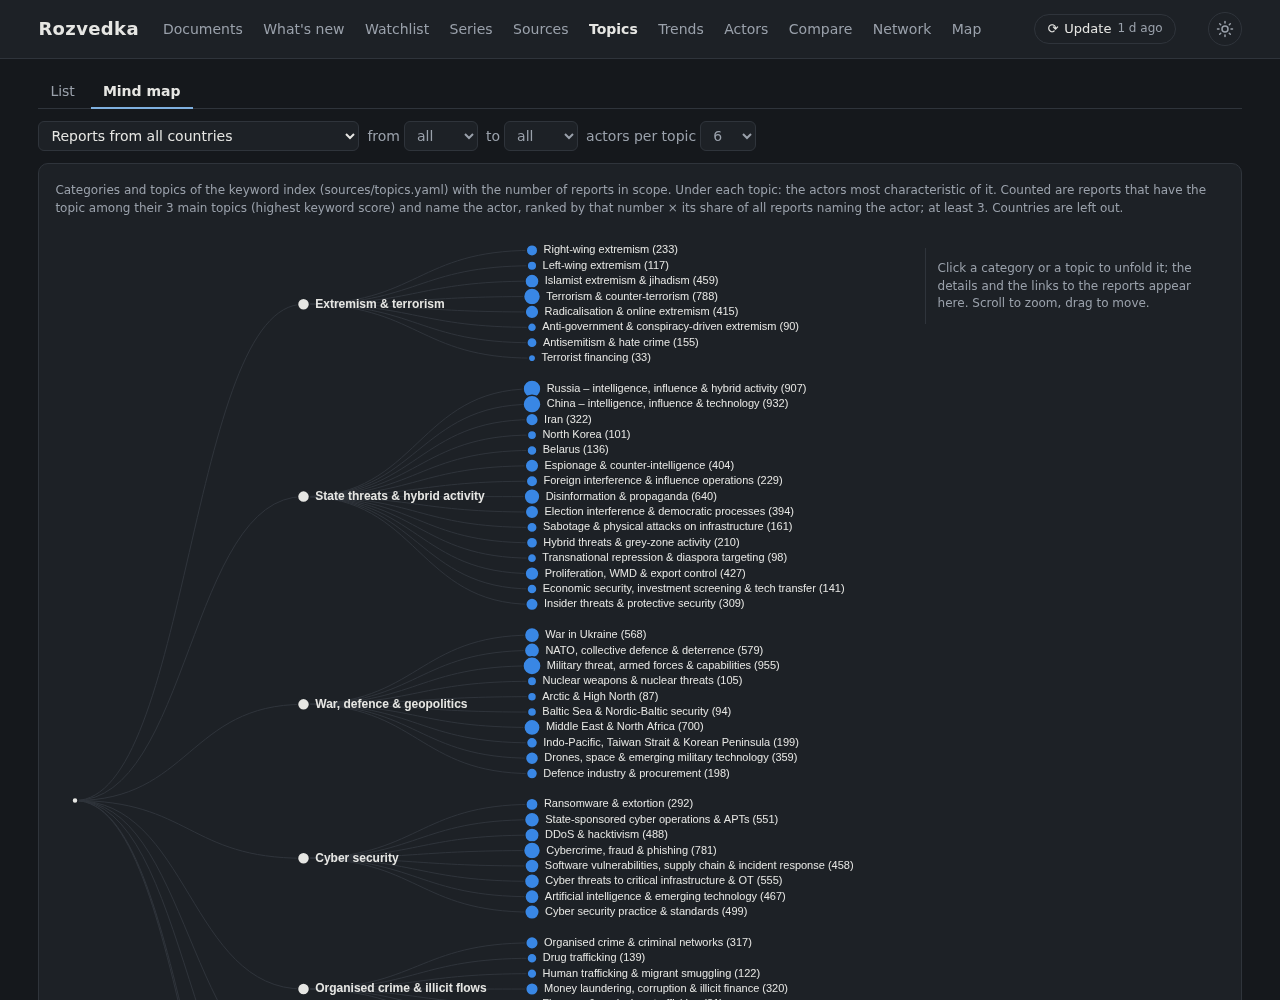
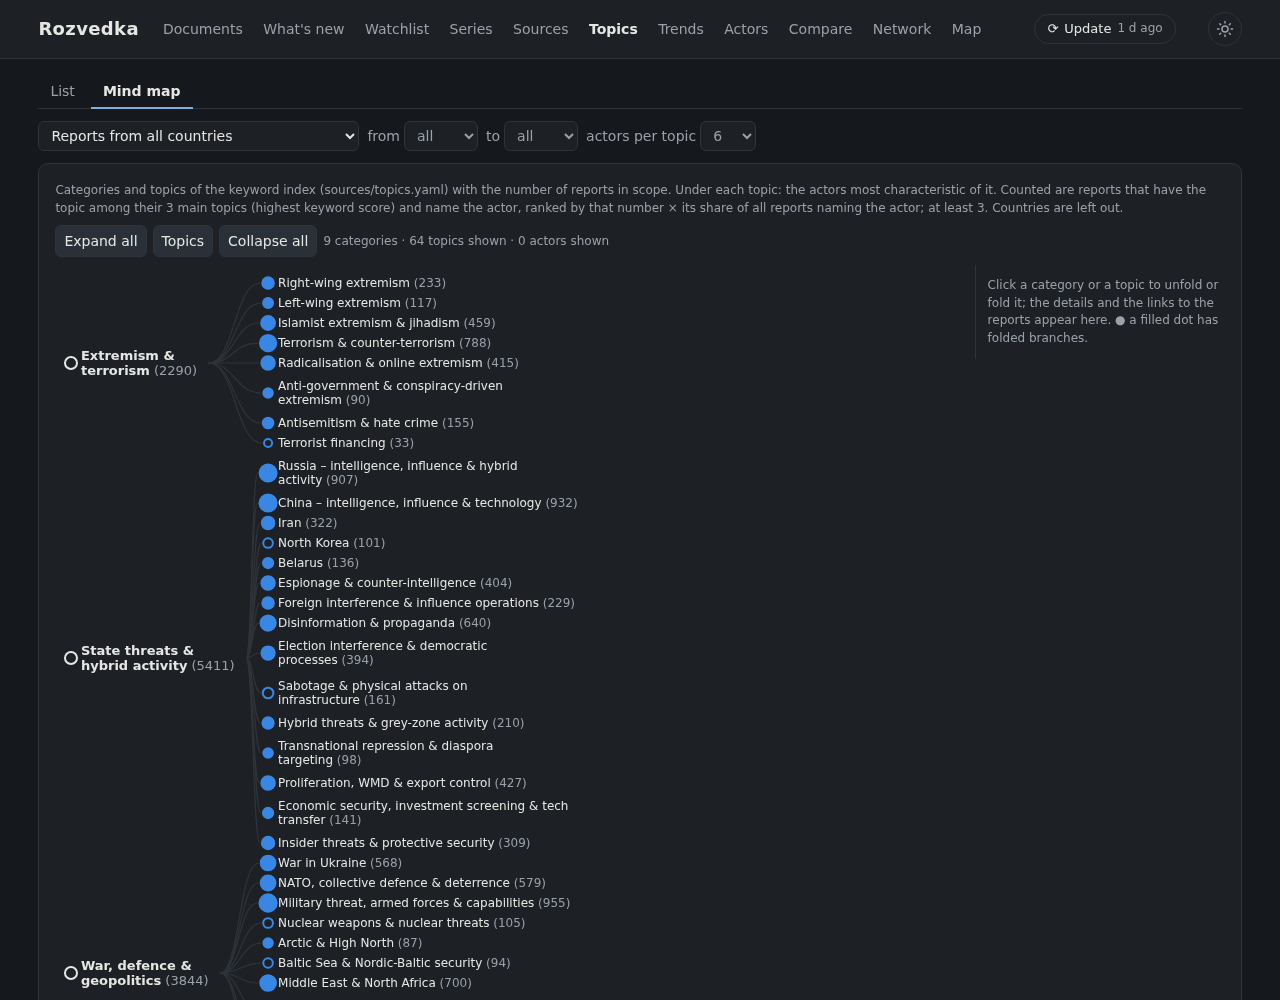
Topic mind map: data in one query (~11 s -> 0.8 s), tidy SVG tree without overlapping labels, expand/collapse all (0.39.0)

diff --git a/rozvedka/templates/topic_map.html b/rozvedka/templates/topic_map.html
@@ -1,6 +1,5 @@
 {% extends "base.html" %}
 {% block title %}Topic mind map · Rozvedka{% endblock %}
-{% block head %}<script src="{{ asset('vendor/echarts/echarts.min.js') }}"></script>{% endblock %}
 {% block main %}
 <nav class="subnav" aria-label="Topic views"><a href="/topics">List</a><a href="/topics/map" class="on">Mind map</a></nav>
 <form class="filters trend-filters" id="scope" onsubmit="return false">
@@ -13,10 +12,16 @@
 </form>
 <section class="viz-card">
   <p id="sub" class="muted small viz-sub"></p>
+  <div class="mm-bar">
+    <button type="button" id="expand-all">Expand all</button>
+    <button type="button" id="topics-only">Topics</button>
+    <button type="button" id="collapse-all">Collapse all</button>
+    <span class="muted small" id="mm-count"></span>
+  </div>
   <div class="tree-grid">
-    <div id="tree" class="chart chart-tree" role="img" aria-describedby="sub"></div>
+    <div class="mm-scroll"><svg id="tree" class="mm" role="tree" aria-describedby="sub"></svg></div>
     <aside id="panel" class="tree-panel" aria-live="polite"><p class="muted small">Click a category or a topic to unfold
-      it; the details and the links to the reports appear here. Scroll to zoom, drag to move.</p></aside>
+      or fold it; the details and the links to the reports appear here. ● a filled dot has folded branches.</p></aside>
   </div>
   <details class="viz-table"><summary>Table view</summary><div id="table"></div></details>
 </section>
@@ -25,13 +30,34 @@
   const $ = (s) => document.querySelector(s);
   const form = $("#scope");
   const esc = (s) => String(s ?? "").replace(/[&<>"']/g, (c) => ({ "&": "&amp;", "<": "&lt;", ">": "&gt;", '"': "&quot;", "'": "&#39;" }[c]));
-  const css = (n) => getComputedStyle(document.documentElement).getPropertyValue(n).trim();
-  const dark = window.rzDark;
-  const url = new URL(location);
-  for (const el of form.elements) { const v = url.searchParams.get(el.name); if (v != null) el.value = v; }
-  const chart = echarts.init($("#tree"), null, { renderer: "canvas" });
-  let data = null;
-  chart.on("click", (p) => { if (p.data) panel(p.data); });
+  const SVG = "http://www.w3.org/2000/svg";
+  const ROW = 20, GAP = 24, PAD = 8;             // row height, space between a label and the next column
+  const svg = $("#tree");
+  let data = null, open = new Set(), maxT = 1;
+  const id = (n, parent) => n.type === "category" ? `c:${n.key}` : n.type === "topic" ? `t:${n.key}` : `a:${parent}:${n.key}`;
+  const measure = (() => {                       // label widths, so each column is as wide as its longest label
+    const c = document.createElement("canvas").getContext("2d");
+    return (text, font) => { c.font = font; return c.measureText(text).width; };
+  })();
+  const FONT = { category: "700 13px system-ui, sans-serif", topic: "12px system-ui, sans-serif", actor: "11.5px system-ui, sans-serif" };
+  const WRAP = { category: 160, topic: 300, actor: 230 };   // long labels wrap to two lines at this width
+  const cache = new Map();
+  function lines(n) {                            // a label's lines: [text, count] pairs; the count goes on the last line
+    const count = n.type === "actor" ? `  ${n.value}/${n.of}` : ` (${n.value})`, k = n.type + n.name + count;
+    if (cache.has(k)) return cache.get(k);
+    let out = [[n.name, count]];
+    const font = FONT[n.type], words = n.name.split(" ");
+    if (measure(n.name + count, font) > WRAP[n.type] && words.length > 1) {
+      let first = "";
+      while (words.length > 1 && measure(`${first} ${words[0]}`.trim(), font) <= WRAP[n.type]) first = `${first} ${words.shift()}`.trim();
+      out = [[first || words.shift(), ""], [words.join(" "), count]];
+    }
+    cache.set(k, out);
+    return out;
+  }
+  const labelWidth = (n) => Math.max(...lines(n).map(([t, c]) => measure(t + c, FONT[n.type])));
+  const radius = (n) => n.type === "category" ? 6 : n.type === "topic" ? 3 + 6 * Math.sqrt(n.value / maxT) : 3.5;
+
   function panel(n) {
     const box = $("#panel");
     if (n.type === "category") {
@@ -49,46 +75,97 @@
         <p class="small"><a href="${esc(n.actor)}">Actor page →</a></p>`;
     }
   }
-  addEventListener("resize", () => chart.resize());
-  dark.addEventListener("change", () => data && draw());
+  function setAll(mode) {                        // "all": every branch open; "topics": categories open; "none": all folded
+    open = new Set();
+    for (const c of data.tree.children) {
+      if (mode !== "none") open.add(id(c));
+      if (mode === "all") for (const t of c.children) if (t.children.length) open.add(id(t));
+    }
+    if (data && render.done) draw();
+  }
+  function el(tag, attrs, parent) {
+    const e = document.createElementNS(SVG, tag);
+    for (const [k, v] of Object.entries(attrs)) e.setAttribute(k, v);
+    parent.appendChild(e);
+    return e;
+  }
   function draw() {
-    const topicsShown = data.tree.children.reduce((n, c) => n + c.children.length, 0);
-    $("#tree").style.height = Math.max(600, topicsShown * 17 + 40) + "px";
-    chart.resize();
-    const ink = css("--ink"), muted = css("--muted"), line = css("--line"), panel = css("--panel");
-    const blue = dark.matches ? "#3987e5" : "#2a78d6", orange = dark.matches ? "#d95926" : "#eb6834";
-    const maxT = Math.max(1, ...data.tree.children.flatMap((c) => c.children.map((t) => t.value)));
-    const style = (n) => {
-      if (n.type === "category") return { ...n, raw: n.name, symbolSize: 12, itemStyle: { color: ink, borderColor: panel },
-        label: { fontWeight: 700, fontSize: 12, color: ink }, children: n.children.map(style) };
-      if (n.type === "topic") return { ...n, raw: n.name, name: `${n.name} (${n.value})`, symbolSize: 5 + 14 * Math.sqrt(n.value / maxT),
-        itemStyle: { color: blue, borderColor: panel }, children: n.children.map(style) };
-      return { ...n, raw: n.name, name: `${n.name} (${n.value}/${n.of})`, symbolSize: 6, itemStyle: { color: orange, borderColor: panel },
-        label: { color: ink, fontSize: 10 } };
-    };
-    chart.setOption({
-      tooltip: { backgroundColor: panel, borderColor: line, textStyle: { color: ink, fontSize: 12 },
-        formatter: (p) => p.data.type === "category" ? `<b>${esc(p.data.name)}</b>` :
-          p.data.type === "topic" ? `<b>${esc(p.data.name)}</b><br>reports · click to unfold its actors` :
-          `<b>${esc(p.data.raw)}</b><br>${p.data.value} of its ${p.data.of} reports are on this topic` },
-      series: [{ type: "tree", layout: "orthogonal", orient: "LR", roam: true, top: 10, bottom: 10, left: 20, right: 380,
-        data: [{ ...style({ ...data.tree, type: "category" }), label: { show: false }, symbolSize: 6 }],
-        leaves: { label: { position: "right", verticalAlign: "middle", align: "left" } },
-        symbol: "circle", initialTreeDepth: 2, expandAndCollapse: true, animationDuration: 300,
-        lineStyle: { color: line, width: 1, curveness: 0.5 },
-        label: { color: ink, fontSize: 11, position: "right", verticalAlign: "middle", align: "left" } }],
-    }, true);
+    // visible nodes in depth-first order; leaves take one row each, an open parent sits beside its children's middle
+    const cols = [0, 0, 0], nodes = [];
+    let row = 0;
+    function walk(n, depth, parentId) {
+      const nid = id(n, parentId), kids = n.children || [], isOpen = kids.length && open.has(nid);
+      const node = { n, nid, depth, isOpen, folded: kids.length > 0 && !isOpen, kids: [] };
+      cols[depth] = Math.max(cols[depth], labelWidth(n));
+      nodes.push(node);
+      if (isOpen) {
+        node.kids = kids.map((k) => walk(k, depth + 1, n.key));
+        node.y = (node.kids[0].y + node.kids.at(-1).y) / 2;
+      } else { const k = lines(n).length; node.y = PAD + ROW * (row + k / 2); row += k; }
+      return node;
+    }
+    const cats = data.tree.children.map((c) => walk(c, 0, ""));
+    const x = [PAD + 8];
+    for (let d = 1; d < 3; d++) x[d] = x[d - 1] + 14 + cols[d - 1] + GAP;
+    const deepest = Math.max(...nodes.map((v) => v.depth));
+    const width = x[deepest] + 14 + cols[deepest] + PAD;
+    const height = PAD * 2 + ROW * row;
+    svg.replaceChildren();
+    svg.setAttribute("width", width); svg.setAttribute("height", height); svg.setAttribute("viewBox", `0 0 ${width} ${height}`);
+    const links = el("g", { class: "mm-links" }, svg), gNodes = el("g", {}, svg);
+    for (const v of nodes) {
+      v.x = x[v.depth];
+      for (const k of v.kids) {                   // from the end of the parent's label to the child's dot
+        const x0 = v.x + 10 + labelWidth(v.n) + 6, x1 = x[k.depth] - radius(k.n) - 2, m = (x0 + x1) / 2;
+        el("path", { d: `M${x0},${v.y} C${m},${v.y} ${m},${k.y} ${x1},${k.y}` }, links);
+      }
+    }
+    for (const v of nodes) {
+      const n = v.n, g = el("g", { class: `mm-node mm-${n.type}${v.folded ? " folded" : ""}`, transform: `translate(${v.x},${v.y})`,
+                                   tabindex: 0, role: "treeitem", "aria-expanded": n.children && n.children.length ? String(!!v.isOpen) : null }, gNodes);
+      if (!(n.children && n.children.length)) g.removeAttribute("aria-expanded");
+      el("circle", { r: radius(n) }, g);
+      const ls = lines(n), t = el("text", {}, g);
+      ls.forEach(([text, count], i) => {
+        const line = el("tspan", { x: 10, dy: i ? "1.2em" : `${0.35 - (ls.length - 1) * 0.6}em` }, t);
+        line.textContent = text;
+        if (count) el("tspan", { class: "mm-n" }, t).textContent = count;
+      });
+      el("title", {}, g).textContent = n.type === "actor"
+        ? `${n.name}: ${n.value} of its ${n.of} reports have this topic among their main topics`
+        : `${n.name}: ${n.value} reports${n.children && n.children.length ? (v.isOpen ? " · click to fold" : " · click to unfold") : ""}`;
+      const act = () => {
+        if (n.children && n.children.length) { open.has(v.nid) ? open.delete(v.nid) : open.add(v.nid); draw(); }
+        panel({ ...n, raw: n.name, children: (n.children || []).map((k) => ({ ...k, raw: k.name })) });
+      };
+      g.addEventListener("click", act);
+      g.addEventListener("keydown", (e) => { if (e.key === "Enter" || e.key === " ") { e.preventDefault(); act(); } });
+    }
+    const shown = nodes.filter((v) => v.n.type === "actor").length;
+    $("#mm-count").textContent = `${cats.length} categories · ${nodes.filter((v) => v.n.type === "topic").length} topics shown · ${shown} actors shown`;
+  }
+  function render() {
+    maxT = Math.max(1, ...data.tree.children.flatMap((c) => c.children.map((t) => t.value)));
+    draw();
     $("#sub").textContent = data.how;
     $("#table").innerHTML = '<table class="vt"><tr><th>Category</th><th>Topic</th><th>Reports</th><th>Actors named in most of them</th></tr>' +
       data.tree.children.flatMap((c) => c.children.map((t) => `<tr><td>${esc(c.name)}</td><td>${esc(t.name)}</td>
         <td><a href="${esc(t.link)}">${t.value}</a></td><td>${t.children.map((a) => `<a href="${esc(a.actor)}">${esc(a.name)}</a> <a class="muted" href="${esc(a.link)}">${a.value}/${a.of}</a>`).join(", ")}</td></tr>`)).join("") + "</table>";
   }
+  $("#expand-all").addEventListener("click", () => setAll("all"));
+  $("#topics-only").addEventListener("click", () => setAll("topics"));
+  $("#collapse-all").addEventListener("click", () => setAll("none"));
   async function load() {
     const q = new URLSearchParams();
     for (const el of form.elements) if (el.name && el.value !== "") q.set(el.name, el.value);
     const page = new URL(location); page.search = q.toString(); history.replaceState(null, "", page);
+    svg.classList.add("loading");
     data = await (await fetch(`/api/topics/tree?${q}`)).json();
-    draw();
+    svg.classList.remove("loading");
+    const first = !render.done;
+    render.done = true;
+    if (first) setAll("topics");      // keeps what the viewer unfolded when only the filters change
+    render();
   }
   form.addEventListener("change", load);
   load();

diff --git a/rozvedka/static/style.css b/rozvedka/static/style.css
@@ -389,7 +389,6 @@ blockquote.p-text mark { background: #fde68a; color: #1d2126; padding: 0 2px; bo
 
 /* ── Network, mentions map, mind map ── */
 .chart-net { height: 720px; }
-.chart-tree { height: 1150px; }
 .map-tabs { margin: 0 0 6px; border-bottom-color: var(--line); }
 .map-tabs a { padding: 4px 8px; font-size: 13px; }
 .coal-select .row { display: flex; gap: 6px; }
@@ -401,9 +400,30 @@ blockquote.p-text mark { background: #fde68a; color: #1d2126; padding: 0 2px; bo
 .map-tabs { flex-wrap: nowrap; }
 .map-tabs a { padding: 4px 5px; white-space: nowrap; font-size: 12.5px; }
 .thin-legend .swatch { flex: 0 0 14px; height: 10px; border-radius: 2px; background: #4a515b; }
-.tree-grid { display: grid; grid-template-columns: minmax(0, 1fr) 300px; gap: 12px; }
+.tree-grid { display: grid; grid-template-columns: minmax(0, 1fr) 250px; gap: 12px; }
 .tree-panel { border-left: 1px solid var(--line); padding-left: 12px; align-self: start; position: sticky; top: 70px; }
 .tree-panel h3 { margin: 4px 0; font-size: 15px; }
+/* topic mind map: a tidy tree drawn in SVG, each column as wide as its longest label, one row per visible leaf */
+.mm-bar { display: flex; flex-wrap: wrap; align-items: center; gap: 6px; margin: 4px 0 8px; }
+.mm-scroll { overflow-x: auto; min-height: 300px; }
+.mm { display: block; font-family: system-ui, sans-serif; }
+.mm.loading { opacity: .4; }
+.mm-links path { fill: none; stroke: var(--line); stroke-width: 1.2; }
+.mm-node { cursor: pointer; outline: none; }
+.mm-node text { fill: var(--ink); font-size: 12px; }
+.mm-node .mm-n { fill: var(--muted); }
+.mm-category text { font-size: 13px; font-weight: 700; }
+.mm-category .mm-n { font-weight: 400; }
+.mm-actor text { font-size: 11.5px; }
+.mm-category circle { fill: var(--ink); stroke: var(--ink); }
+.mm-topic circle { fill: var(--panel); stroke: var(--mm-topic); stroke-width: 2; }
+.mm-topic.folded circle { fill: var(--mm-topic); }
+.mm-category:not(.folded) circle { fill: var(--panel); stroke-width: 2; }
+.mm-actor circle { fill: var(--mm-actor); }
+.mm-node:hover text, .mm-node:focus-visible text { text-decoration: underline; }
+.mm-node:focus-visible circle { stroke: var(--accent); stroke-width: 3; }
+:root { --mm-topic: #2a78d6; --mm-actor: #eb6834; }
+:root[data-theme="dark"] { --mm-topic: #3987e5; --mm-actor: #d95926; }
 .tree-panel ul.plain li { margin: 3px 0; }
 @media (max-width: 900px) { .tree-grid { grid-template-columns: 1fr; } .tree-panel { border-left: 0; padding-left: 0; } }
 

diff --git a/rozvedka/graphs.py b/rozvedka/graphs.py
@@ -253,7 +253,6 @@ def topic_tree(per_topic: int = 6, coalition: str = "", year_from=None, year_to=
     """
     tax = topics.taxonomy()
     where, args, params = _scope(year_from, year_to, coalition)
-    main_sql, main_args = topics.main_topic_clause()
     with db.session() as con:
         actors.init()
         counts = dict(con.execute(f"""SELECT t.topic, COUNT(DISTINCT d.id) FROM doc_topics t
@@ -263,19 +262,27 @@ def topic_tree(per_topic: int = 6, coalition: str = "", year_from=None, year_to=
             f"""SELECT a.key, COUNT(DISTINCT d.id) FROM doc_actors da JOIN actors a ON a.key=da.actor_key
                 JOIN documents d ON d.id=da.doc_id JOIN sources s ON s.id=d.source_id
                 WHERE {where} AND a.kind != 'country' AND {NOT_BEFORE_FOUNDED} GROUP BY a.key""", args).fetchall())
+        # one pass instead of one query per topic: rank each scoped report's topics once, keep its main ones, then
+        # count (main topic, actor) pairs – the same rule as topics.main_topic_clause()
+        meta = [t for t, info in tax["topics"].items() if info.get("meta")]
         cand: dict[str, list] = {}
-        for t, info in tax["topics"].items():
-            if info.get("meta"):
-                continue
-            for r in con.execute(
-                    f"""SELECT a.key, a.label, a.kind, COUNT(DISTINCT d.id) n FROM doc_actors da
-                        JOIN actors a ON a.key=da.actor_key JOIN documents d ON d.id=da.doc_id
-                        JOIN sources s ON s.id=d.source_id
-                        WHERE {where} AND a.kind != 'country' AND {NOT_BEFORE_FOUNDED} AND {main_sql}
-                        GROUP BY a.key HAVING n >= ?""", (*args, *main_args, t, min_reports)):
-                share = r["n"] / totals[r["key"]]
-                cand.setdefault(t, []).append({**dict(r), "of": totals[r["key"]], "share": round(share, 4),
-                                               "score": r["n"] * share})
+        for r in con.execute(
+                f"""WITH scoped AS (SELECT d.id, d.year FROM documents d JOIN sources s ON s.id=d.source_id WHERE {where}),
+                         main AS (SELECT doc_id, topic FROM (
+                                    SELECT t.doc_id, t.topic, ROW_NUMBER() OVER (PARTITION BY t.doc_id
+                                           ORDER BY t.score DESC, t.topic) rk
+                                    FROM doc_topics t JOIN scoped ON scoped.id=t.doc_id
+                                    WHERE t.topic NOT IN ({','.join('?' * len(meta))}))
+                                  WHERE rk <= {topics.MAIN_TOPICS})
+                    SELECT m.topic, a.key, a.label, a.kind, COUNT(DISTINCT d.id) n
+                    FROM main m JOIN scoped d ON d.id=m.doc_id JOIN doc_actors da ON da.doc_id=m.doc_id
+                    JOIN actors a ON a.key=da.actor_key
+                    WHERE a.kind != 'country' AND {NOT_BEFORE_FOUNDED}
+                    GROUP BY m.topic, a.key HAVING n >= ?""", (*args, *meta, min_reports)):
+            share = r["n"] / totals[r["key"]]
+            cand.setdefault(r["topic"], []).append({**{k: r[k] for k in ("key", "label", "kind", "n")},
+                                                    "of": totals[r["key"]], "share": round(share, 4),
+                                                    "score": r["n"] * share})
     tops = {t: sorted(lst, key=lambda x: (-x["score"], x["label"]))[:per_topic] for t, lst in cand.items()}
     tree = {"name": "Library", "children": []}
     for ckey, cat in tax["categories"].items():

diff --git a/tests/test_graphs.py b/tests/test_graphs.py
@@ -115,3 +115,16 @@ def test_topic_tree(library):
     assert list(kids) == ["Q5", "Q9"]                                   # 2×1.0 before 2×0.67
     assert parse_qs(urlsplit(kids["Q5"]["link"]).query) == {"indexed": ["1"], "topic": ["russia"], "actor": ["Q5"],
                                                            "main": ["1"]}
+
+
+def test_topic_tree_matches_main_topic_rule(library):
+    """The tree counts all topics in one query; each count equals the Documents filter's main-topic rule."""
+    t = graphs.topic_tree(per_topic=12, min_reports=1)
+    main_sql, main_args = topics.main_topic_clause()
+    with db.session() as con:
+        for c in t["tree"]["children"]:
+            for tp in c["children"]:
+                for a in tp["children"]:
+                    n = con.execute(f"""SELECT COUNT(DISTINCT d.id) FROM documents d JOIN doc_actors da ON da.doc_id=d.id
+                                        WHERE da.actor_key=? AND {main_sql}""", (a["key"], *main_args, tp["key"])).fetchone()[0]
+                    assert a["value"] == n, (tp["key"], a["key"])

diff --git a/tools/screenshots.py b/tools/screenshots.py
@@ -57,7 +57,7 @@ SHOTS = {
     "democracy-map": ("/map/democracy?measure=vdem_regime&year=2025", 900, [("sleep", 6)], None),
     "democracy-change": ("/map/democracy?measure=change&year=2025", 900, [("sleep", 6)], None),
     "mentions": (f"/map/mentions?mode=about&about={CHINA}", 800, [("sleep", 6)], None),
-    "mindmap": ("/topics/map", 1000, [("sleep", 16)], None),     # its data takes ~11 s on the Pi
+    "mindmap": ("/topics/map", 1000, [("sleep", 4)], None),
     "update": ("/update", 1200, [], None),
     # taken while a job runs (see the module docstring): start an export or a check on /data first
     "data-export": ("/data", 1000, [("sleep", 2)], None),

diff --git a/rozvedka/__init__.py b/rozvedka/__init__.py
@@ -5,7 +5,7 @@ from pathlib import Path
 
 # Single source of the release version (Semantic Versioning, https://semver.org).
 # Do not edit by hand: run `python3 tools/bump_version.py patch|minor|major` (see CHANGELOG.md, "Versioning").
-__version__ = "0.38.1"
+__version__ = "0.39.0"
 
 
 @lru_cache(maxsize=1)

diff --git a/CHANGELOG.md b/CHANGELOG.md
@@ -27,6 +27,19 @@ From 0.9.1 on, the significance of a change decides which part of `MAJOR.MINOR.P
 
 ## [Unreleased]
 
+## [0.39.0] – 2026-10-07
+
+### Added
+- Topic mind map: **Expand all**, **Topics** and **Collapse all** buttons, keyboard support (Tab, Enter), and a count
+  of the topics and actors shown.
+
+### Changed
+- The topic mind map loads in under a second instead of ~11 s: its data comes from one database query instead of one
+  per topic (same counts – a test compares them with the Documents filter's rule).
+- The mind map is drawn as a tidy tree: each column is as wide as its longest label, long names wrap to two lines and
+  the page grows as branches unfold, so labels no longer overlap when a topic is expanded. It follows the light and
+  dark theme. Scroll-to-zoom and dragging are gone – the page scrolls instead.
+
 ## [0.38.1] – 2026-10-07
 
 ### Fixed
@@ -754,7 +767,8 @@ From 0.9.1 on, the significance of a change decides which part of `MAJOR.MINOR.P
 - Crawler, polite downloader (robots.txt, per-host delay, PDF check, de-duplication) and FastAPI web portal.
 - systemd user units for the portal and a weekly update timer.
 
-[Unreleased]: https://github.com/iiogurt/Rozvedka/compare/v0.38.1...HEAD
+[Unreleased]: https://github.com/iiogurt/Rozvedka/compare/v0.39.0...HEAD
+[0.39.0]: https://github.com/iiogurt/Rozvedka/compare/v0.38.1...v0.39.0
 [0.38.1]: https://github.com/iiogurt/Rozvedka/compare/v0.38.0...v0.38.1
 [0.38.0]: https://github.com/iiogurt/Rozvedka/compare/v0.37.1...v0.38.0
 [0.37.1]: https://github.com/iiogurt/Rozvedka/compare/v0.37.0...v0.37.1

diff --git a/README.md b/README.md
@@ -5,7 +5,7 @@
 **A self-hosted library of the public reports of intelligence, security and civil-protection agencies –
 collected, searchable, indexed by topic and actor, and traceable back to the page they came from.**
 
-![version](https://img.shields.io/badge/version-0.38.1-1f4e79)
+![version](https://img.shields.io/badge/version-0.39.0-1f4e79)
 ![python](https://img.shields.io/badge/python-3.13-3776ab?logo=python&logoColor=white)
 ![fastapi](https://img.shields.io/badge/FastAPI-server--rendered-009688?logo=fastapi&logoColor=white)
 ![sqlite](https://img.shields.io/badge/SQLite-FTS5-003b57?logo=sqlite&logoColor=white)
@@ -350,7 +350,9 @@ measures of that year with a trend line, and every colour and count names its so
 <img src="docs/images/mindmap.png" alt="Topic mind map: categories, topics and their most characteristic actors" width="900">
 
 Categories → topics → the actors most characteristic of each topic (counted in the reports that have the topic
-among their three main topics), with a details panel and links to every count.
+among their three main topics), with a details panel and links to every count. Click a category or topic to unfold or
+fold it, or use **Expand all**, **Topics** (the default) and **Collapse all**; each column is as wide as its longest
+label and long names wrap, so labels never overlap. A filled dot has folded branches; dot size shows the reports.
 
 ### 💾 Data exchange – backup and sharing without crawling
 

diff --git a/docs/ROADMAP.md b/docs/ROADMAP.md
@@ -130,8 +130,8 @@ Each item: why · what · done when · version step.
 2. ✅ (0.31.1) **CI** – GitHub Actions running the tests on every PR. · patch
 3. **Split `app.py`** into route modules (documents, actors, trends, maps, data, update) and a small migration helper. · patch
 4. **Performance** – cache actor and network results per index version (1–3 s pages); the home page takes ~0.7 s;
-   a cross-language search takes ~3 s on the Pi (highlighting ~40 alternatives) against ~1 s as typed; the topic mind
-   map's data (`/api/topics/tree`) takes ~11 s. · patch
+   a cross-language search takes ~3 s on the Pi (highlighting ~40 alternatives) against ~1 s as typed. ✅ (0.39.0) the
+   topic mind map's data: one query instead of one per topic, ~11 s → ~0.8 s. · patch
 5. **Optional remote access** – stays LAN-only; if wanted, through a VPN (WireGuard / Tailscale), never exposed. · docs
 
 ### Done since 0.16.0
